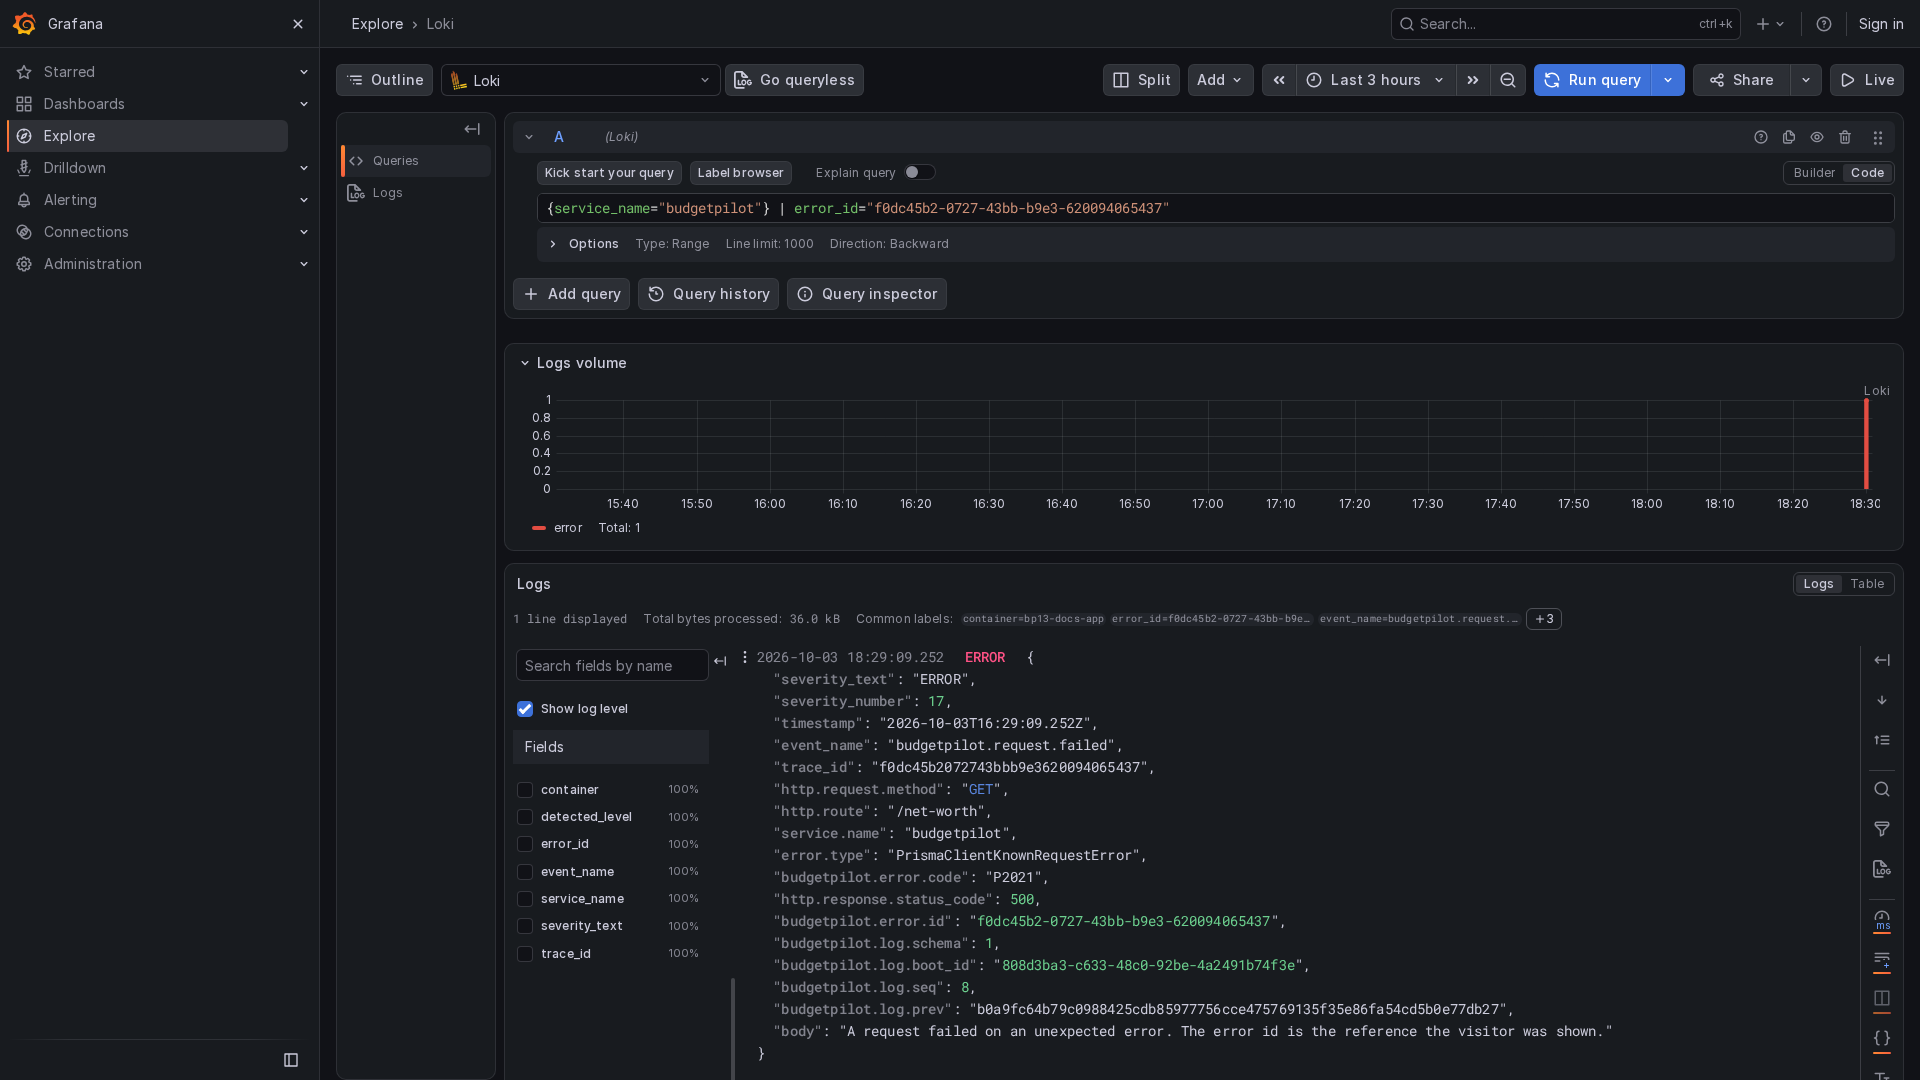
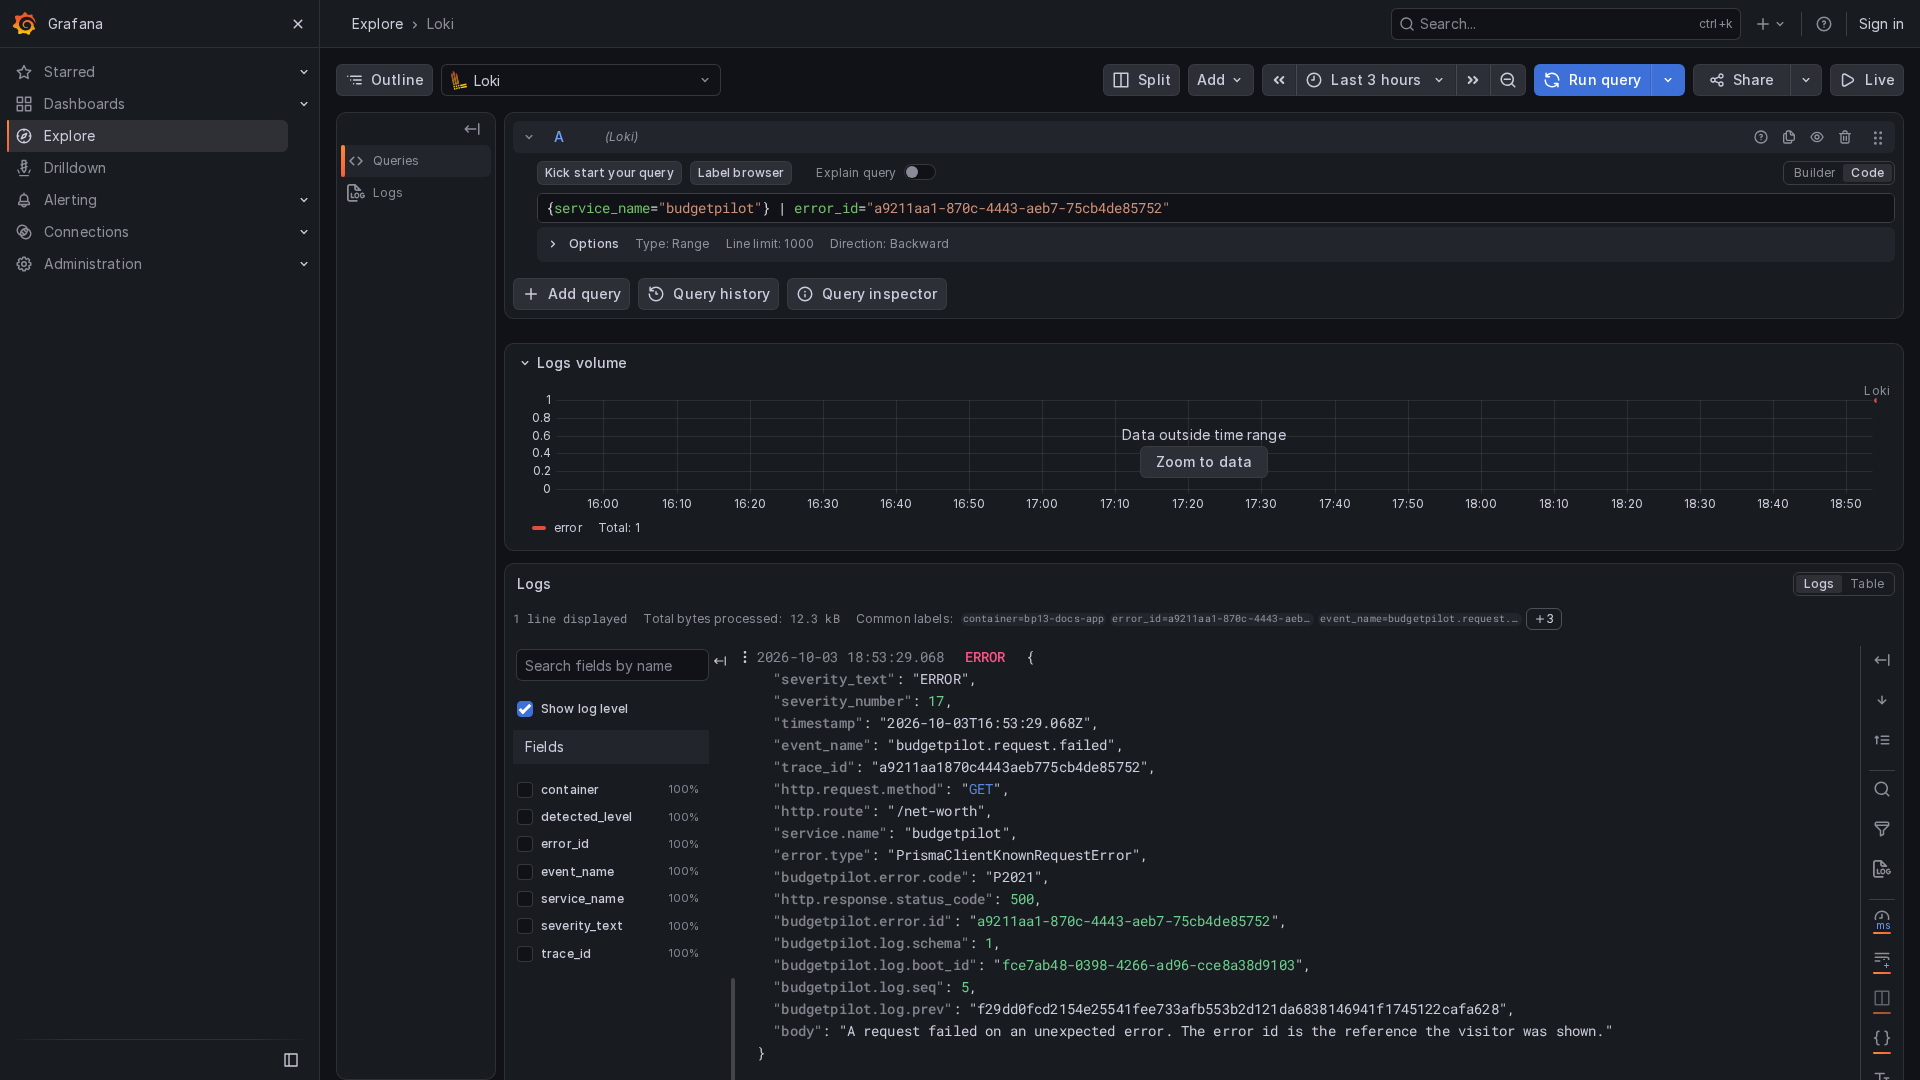
docs(logging): take the logging screenshots from doc-screenshots, link the user page
The two logging images are now captured by a `logging` group in
scripts/doc-screenshots.mjs, with an assert on each screen, instead of by
a one-off script. The group adds three optional shot properties: a base
URL for another application, a url given as a function, and no BudgetPilot
session or language check for such a shot.

Each logging page ends with a link to the page written for people who use
an instance someone else runs.

diff --git a/docs/screenshots/logging/README.md b/docs/screenshots/logging/README.md
@@ -9,68 +9,40 @@ in a way that differs.
 | [`error-reference-desktop.png`](./error-reference-desktop.png) | [The tutorial](../../logging-tutorial.md)                  | The error page of a failed Net worth request, with its reference                                     |
 | [`grafana-explore-desktop.png`](./grafana-explore-desktop.png) | [Send the log to a collector](../../logging-collectors.md) | Grafana Explore running the LogQL query for one error reference on Loki, and the one line it returns |
 
-Neither image is generated by `scripts/doc-screenshots.mjs`. Each is a throwaway capture made by the
-steps below, and the data in both is synthetic: one account, `paul.mercier@example.test` (holder Paul
-Mercier, who does not exist), no transactions. No address, name or path of the machine appears in
-either. Look at each image before committing a new one: the private-reference scanner reads text, not
-pixels.
+Both images are taken by the `logging` group of `scripts/doc-screenshots.mjs`, which asserts on the
+screen before it writes a file: the first shot refuses to write unless the page carries an
+`Error reference:` line, and the second unless Grafana shows the line of that same reference. The
+data is synthetic: one account, `paul.mercier@example.test` (holder Paul Mercier, who does not
+exist), no transactions. No address, name or path of the machine appears in either. Look at each
+image before committing a new one: the private-reference scanner reads text, not pixels.
 
-## `error-reference-desktop.png`
+## How to re-take them
 
-1. Start an instance on an empty volume, as in [the tutorial](../../logging-tutorial.md), with the
-   English language (the browser sends `en-US`).
-1. Register the first account at `/register` with the bootstrap token from `.env`.
-1. Rename the table the Net worth page reads, with the command in tutorial step 5, so that the page
-   fails.
-1. Open `/net-worth` in headless Chromium at 1920 x 1080, signed in, and take a full screenshot with
-   Playwright:
+The script attaches to instances you started. The group needs three things in place.
 
-   ```js
-   const { chromium } = require('playwright');
-   const browser = await chromium.launch();
-   const context = await browser.newContext({
-   	storageState: 'state.json', // the session saved after registering
-   	locale: 'en-US',
-   	viewport: { width: 1920, height: 1080 }
-   });
-   const page = await context.newPage();
-   await page.goto('http://localhost:3000/net-worth');
-   await page.screenshot({ path: 'error-reference-desktop.png' });
-   await browser.close();
-   ```
+1. A BudgetPilot instance on an empty volume with the account above registered, as in
+   [the tutorial](../../logging-tutorial.md), and the Alloy, Loki and Grafana containers of
+   [Send the log to a collector](../../logging-collectors.md) running against it.
+1. The Net worth page failing, with the command in tutorial step 5.
+1. The environment variables the script reads.
 
-1. Rename the table back with the command in tutorial step 6.
+Then run:
 
-The reference on the page changes on every capture. The alt text in the tutorial does not quote it.
+```bash
+BASE_URL=http://localhost:3000 \
+DOC_EMAIL=paul.mercier@example.test DOC_PASSWORD=<the account's password> \
+GRAFANA_URL=http://localhost:3001 \
+node scripts/doc-screenshots.mjs logging
+```
 
-## `grafana-explore-desktop.png`
+Put the table back afterwards with the command in tutorial step 6.
 
-1. Run the Alloy, Loki and Grafana recipe in [Send the log to a collector](../../logging-collectors.md),
-   with an error reference from a failed request (the capture above produces one).
-1. Open Grafana Explore at 1920 x 1080 with the query for that reference, in a URL, and take the
-   screenshot once the line has rendered:
+The reference on the error page is different on every capture, and the second image searches for
+the reference the first one read, so the two images are always about the same failure. The alt text
+in the pages does not quote a reference.
 
-   ```js
-   const panes = {
-   	a: {
-   		datasource: 'loki',
-   		queries: [
-   			{
-   				refId: 'A',
-   				expr: `{service_name="budgetpilot"} | error_id="${reference}"`,
-   				queryType: 'range'
-   			}
-   		],
-   		range: { from: 'now-3h', to: 'now' }
-   	}
-   };
-   await page.goto(
-   	`http://localhost:3001/explore?schemaVersion=1&orgId=1&panes=${encodeURIComponent(JSON.stringify(panes))}`
-   );
-   await page.getByText('budgetpilot.request.failed').first().waitFor();
-   await page.screenshot({ path: 'grafana-explore-desktop.png' });
-   ```
-
-The image shows the Grafana interface of the version pinned in the recipe, and the name of the test
-container in the small `container=` label above the result. It ages with Grafana's interface: retake
-it when the pinned version changes.
+The Logs volume chart in the Grafana image can read « Data outside time range ». The single line
+the query returns sits at the right edge of the three-hour window, and the result under the chart is
+the line. The image shows the Grafana interface of the version pinned in the recipe, and the name of
+the test container in the small `container=` label above the result. It ages with Grafana's
+interface: retake it when the pinned version changes.

diff --git a/docs/logging-collectors.md b/docs/logging-collectors.md
@@ -595,18 +595,18 @@ creating a stream for each value.
    Grafana, or any client of the Loki API, run either query with the reference from the error page:
 
    ```text
-   {service_name="budgetpilot"} | error_id="f0dc45b2-0727-43bb-b9e3-620094065437"
+   {service_name="budgetpilot"} | error_id="a9211aa1-870c-4443-aeb7-75cb4de85752"
    ```
 
    ```text
-   {service_name="budgetpilot"} |= "f0dc45b2-0727-43bb-b9e3-620094065437"
+   {service_name="budgetpilot"} |= "a9211aa1-870c-4443-aeb7-75cb4de85752"
    ```
 
    The first filters on the structured metadata. The second searches the text of every line. Both
    returned exactly one entry in the test, the line of the error:
 
    ```text
[2 lines of base64/hex data omitted]
    ```
 
 1. Optional: look at it in Grafana. Create `grafana-datasource.yaml`:
@@ -744,3 +744,8 @@ docker network rm logging-net
 ```
 
 The images stay on disk until you remove them with `docker rmi`.
+
+---
+
+If you use an instance someone else runs, [what the security log records about you](./using/security-logging.md)
+is the page written for you.

diff --git a/docs/logging-tutorial.md b/docs/logging-tutorial.md
@@ -264,7 +264,8 @@ use the reference.
    ![The BudgetPilot error page with the title "Something went wrong" and, under the description, the line "Error reference" followed by an identifier.](./screenshots/logging/error-reference-desktop.png)
 
 1. Copy the identifier after **Error reference** and keep it in a variable. Replace the value with
-   the one on your own page.
+   the one on your own page: the reference in the picture above, and the one in the commands below,
+   are from different runs, and yours will differ from both.
 
    ```bash
    REF=dd4a6f81-4503-4695-981d-be3d0ff7b49b
@@ -334,3 +335,8 @@ reference from the error page to the line that explains it. To go further:
 - [Why the log looks like this](./explanation/logging-design.md) explains the choices you saw: one
   object per line, no addresses, no messages.
 - [Logs](./logging.md) lists every event and every field.
+
+---
+
+If you use an instance someone else runs, [what the security log records about you](./using/security-logging.md)
+is the page written for you.

diff --git a/docs/explanation/logging-design.md b/docs/explanation/logging-design.md
@@ -191,3 +191,8 @@ destination and credentials, which is the dependency the project avoids.
 - [Logs](../logging.md) lists every event and every field.
 - [Your first look at the logs](../logging-tutorial.md) walks through reading them.
 - [How BudgetPilot classifies the data it stores](./data-classification.md) defines the levels.
+
+---
+
+If you use an instance someone else runs, [what the security log records about you](../using/security-logging.md)
+is the page written for you.

diff --git a/docs/logging-howto.md b/docs/logging-howto.md
@@ -466,3 +466,8 @@ someone who controls the machine. It cannot detect:
 
 For the last case, the copy that matters is the one held somewhere the host cannot change. See
 [Send the log to a collector](./logging-collectors.md).
+
+---
+
+If you use an instance someone else runs, [what the security log records about you](./using/security-logging.md)
+is the page written for you.
